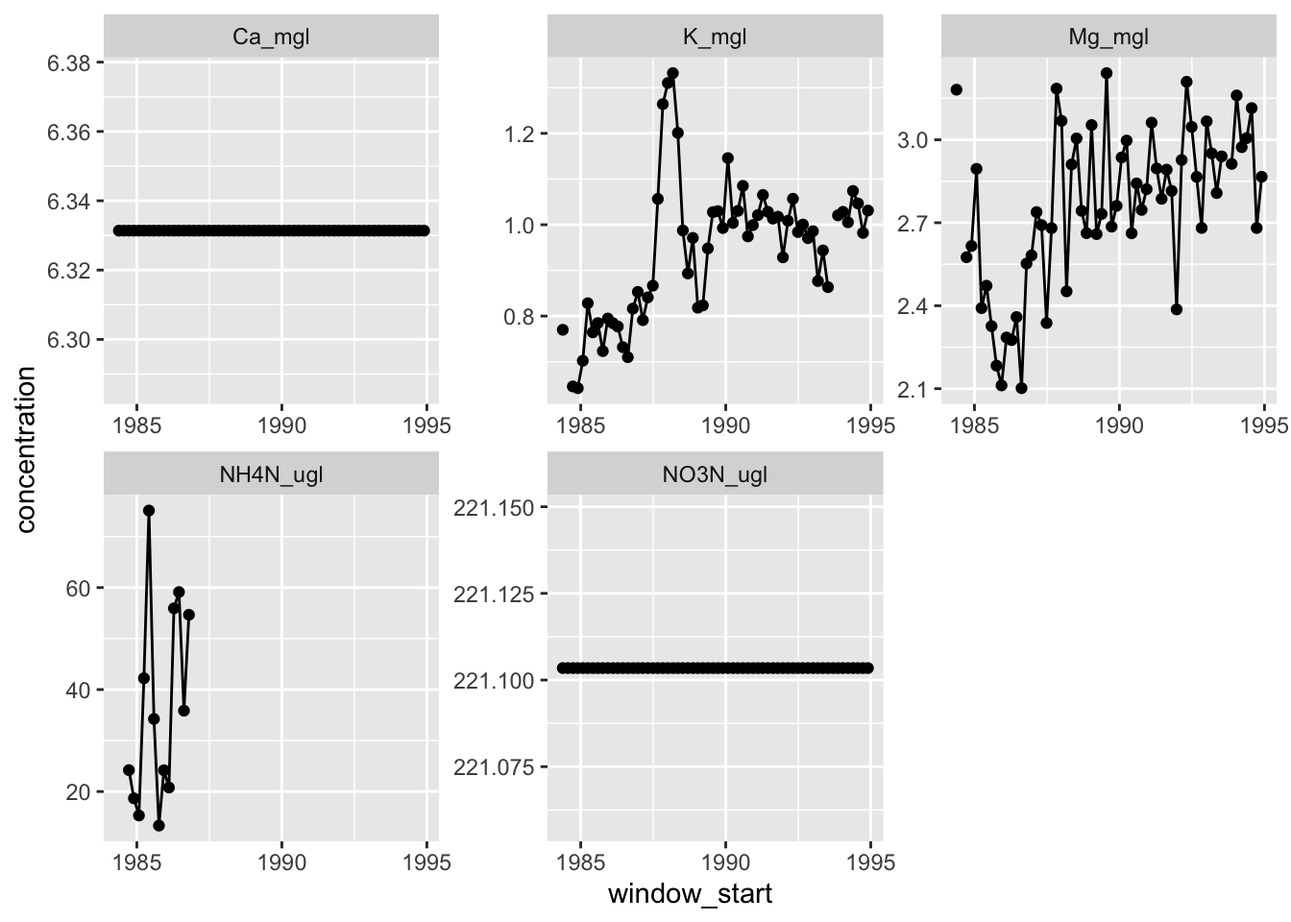
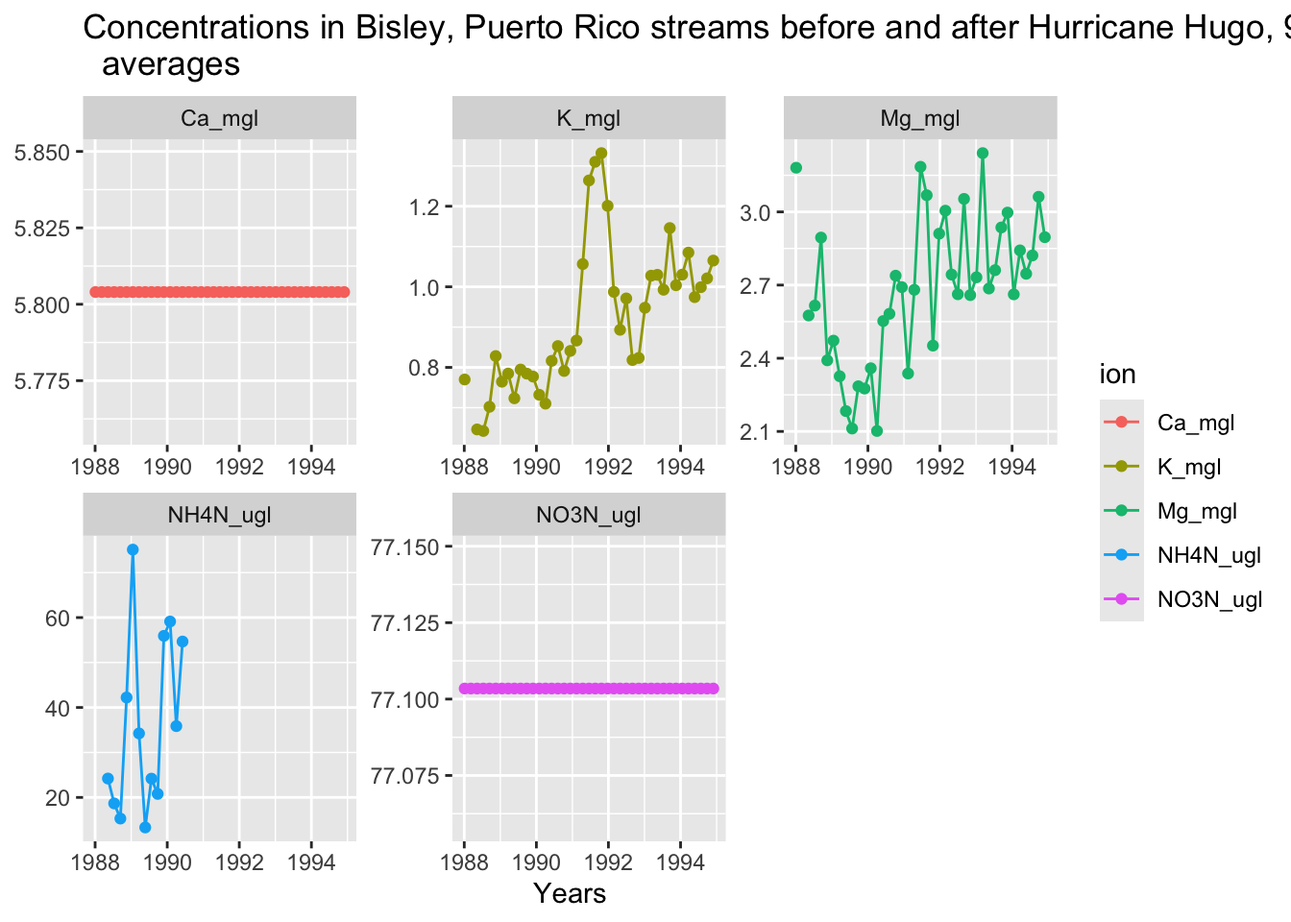
fixed my checkmark for self-assesment

diff --git a/finaleds214.html b/finaleds214.html
@@ -161,12 +161,12 @@ pre > code.sourceCode > span > a:first-child::before { text-decoration: underlin
 <section id="cleaning-data" class="level2">
 <h2 class="anchored" data-anchor-id="cleaning-data">Cleaning Data</h2>
 <div class="cell">
-<div class="code-copy-outer-scaffold"><div class="sourceCode cell-code" id="cb2"><pre class="sourceCode r code-with-copy"><code class="sourceCode r"><span id="cb2-1"><a href="#cb2-1" aria-hidden="true" tabindex="-1"></a>combined <span class="ot">&lt;-</span> <span class="fu">bind_rows</span>(bq1, bq2, bq3, prm) <span class="co"># bind_rows vs rbind</span></span>
+<div class="code-copy-outer-scaffold"><div class="sourceCode cell-code" id="cb2"><pre class="sourceCode r code-with-copy"><code class="sourceCode r"><span id="cb2-1"><a href="#cb2-1" aria-hidden="true" tabindex="-1"></a>combined <span class="ot">&lt;-</span> <span class="fu">bind_rows</span>(bq1, bq2, bq3, prm) <span class="co"># rbind won't be as effective as bind_rows</span></span>
 <span id="cb2-2"><a href="#cb2-2" aria-hidden="true" tabindex="-1"></a></span>
-<span id="cb2-3"><a href="#cb2-3" aria-hidden="true" tabindex="-1"></a>clean_combine <span class="ot">&lt;-</span> combined <span class="sc">|&gt;</span> <span class="co"># clean the combine data</span></span>
-<span id="cb2-4"><a href="#cb2-4" aria-hidden="true" tabindex="-1"></a>  <span class="fu">select</span>(Sample_ID, Sample_Date,<span class="st">`</span><span class="at">NH4-N</span><span class="st">`</span>, <span class="st">`</span><span class="at">NO3-N</span><span class="st">`</span>, Ca, Mg, K) <span class="co"># select the columns of interest</span></span>
+<span id="cb2-3"><a href="#cb2-3" aria-hidden="true" tabindex="-1"></a>clean_combine <span class="ot">&lt;-</span> combined <span class="sc">|&gt;</span></span>
+<span id="cb2-4"><a href="#cb2-4" aria-hidden="true" tabindex="-1"></a>  <span class="fu">select</span>(Sample_ID, Sample_Date, <span class="st">`</span><span class="at">NH4-N</span><span class="st">`</span>, <span class="st">`</span><span class="at">NO3-N</span><span class="st">`</span>, Ca, Mg, K)</span>
 <span id="cb2-5"><a href="#cb2-5" aria-hidden="true" tabindex="-1"></a></span>
-<span id="cb2-6"><a href="#cb2-6" aria-hidden="true" tabindex="-1"></a><span class="fu">glimpse</span>(clean_combine) <span class="co"># glimpse at the clean data</span></span></code></pre></div><button title="Copy to Clipboard" class="code-copy-button"><i class="bi"></i></button></div>
+<span id="cb2-6"><a href="#cb2-6" aria-hidden="true" tabindex="-1"></a><span class="fu">glimpse</span>(clean_combine) <span class="co"># utilisizing glimpse in order to view the columns in the clean data</span></span></code></pre></div><button title="Copy to Clipboard" class="code-copy-button"><i class="bi"></i></button></div>
 <div class="cell-output cell-output-stdout">
 <pre><code>Rows: 7,177
 Columns: 7
@@ -185,7 +185,7 @@ $ K           &lt;dbl&gt; 0.81, 0.82, 0.82, 0.65, 0.62, 0.64, 0.69, 0.68, 0.77, 
 <div class="cell">
 <div class="code-copy-outer-scaffold"><div class="sourceCode cell-code" id="cb4"><pre class="sourceCode r code-with-copy"><code class="sourceCode r"><span id="cb4-1"><a href="#cb4-1" aria-hidden="true" tabindex="-1"></a>combine_tibble <span class="ot">&lt;-</span> <span class="fu">tibble</span>(</span>
 <span id="cb4-2"><a href="#cb4-2" aria-hidden="true" tabindex="-1"></a>  <span class="at">window_start =</span> <span class="fu">seq</span>(</span>
-<span id="cb4-3"><a href="#cb4-3" aria-hidden="true" tabindex="-1"></a>    <span class="fu">ymd</span>(<span class="st">"1984-05-20"</span>),</span>
+<span id="cb4-3"><a href="#cb4-3" aria-hidden="true" tabindex="-1"></a>    <span class="fu">ymd</span>(<span class="st">"1988-01-05"</span>),</span>
 <span id="cb4-4"><a href="#cb4-4" aria-hidden="true" tabindex="-1"></a>    <span class="fu">ymd</span>(<span class="st">"1994-12-31"</span>),</span>
 <span id="cb4-5"><a href="#cb4-5" aria-hidden="true" tabindex="-1"></a>    <span class="at">by =</span> <span class="st">"9 weeks"</span></span>
 <span id="cb4-6"><a href="#cb4-6" aria-hidden="true" tabindex="-1"></a>  ),</span>
@@ -203,27 +203,37 @@ $ K           &lt;dbl&gt; 0.81, 0.82, 0.82, 0.65, 0.62, 0.64, 0.69, 0.68, 0.77, 
 <div class="cell">
 <div class="code-copy-outer-scaffold"><div class="sourceCode cell-code" id="cb5"><pre class="sourceCode r code-with-copy"><code class="sourceCode r"><span id="cb5-1"><a href="#cb5-1" aria-hidden="true" tabindex="-1"></a>w2 <span class="ot">&lt;-</span> clean_combine<span class="sc">$</span>Sample_Date[<span class="dv">1</span>]</span>
 <span id="cb5-2"><a href="#cb5-2" aria-hidden="true" tabindex="-1"></a><span class="cf">for</span> (i <span class="cf">in</span> <span class="dv">1</span><span class="sc">:</span><span class="fu">nrow</span>(combine_tibble)) {</span>
-<span id="cb5-3"><a href="#cb5-3" aria-hidden="true" tabindex="-1"></a>  w1 <span class="ot">&lt;-</span> w2 </span>
+<span id="cb5-3"><a href="#cb5-3" aria-hidden="true" tabindex="-1"></a>  w1 <span class="ot">&lt;-</span> w2</span>
 <span id="cb5-4"><a href="#cb5-4" aria-hidden="true" tabindex="-1"></a>  <span class="fu">print</span>(w1)</span>
 <span id="cb5-5"><a href="#cb5-5" aria-hidden="true" tabindex="-1"></a>  w2 <span class="ot">&lt;-</span> w1 <span class="sc">+</span> <span class="fu">weeks</span>(<span class="dv">9</span>)</span>
 <span id="cb5-6"><a href="#cb5-6" aria-hidden="true" tabindex="-1"></a>  <span class="fu">print</span>(w2)</span>
 <span id="cb5-7"><a href="#cb5-7" aria-hidden="true" tabindex="-1"></a>  <span class="fu">print</span>(<span class="st">''</span>)</span>
-<span id="cb5-8"><a href="#cb5-8" aria-hidden="true" tabindex="-1"></a>  k <span class="ot">&lt;-</span> clean_combine<span class="sc">$</span>K[clean_combine<span class="sc">$</span>Sample_Date <span class="sc">&gt;=</span> w1 <span class="sc">&amp;</span> clean_combine<span class="sc">$</span>Sample_Date <span class="sc">&lt;</span> w2]</span>
-<span id="cb5-9"><a href="#cb5-9" aria-hidden="true" tabindex="-1"></a>  mean_k <span class="ot">&lt;-</span> <span class="fu">mean</span>(k, <span class="at">na.rm =</span> <span class="cn">TRUE</span>)</span>
-<span id="cb5-10"><a href="#cb5-10" aria-hidden="true" tabindex="-1"></a>  combine_tibble<span class="sc">$</span>K_mgl[i] <span class="ot">&lt;-</span> mean_k</span>
-<span id="cb5-11"><a href="#cb5-11" aria-hidden="true" tabindex="-1"></a>  mg <span class="ot">&lt;-</span> clean_combine<span class="sc">$</span>Mg[clean_combine<span class="sc">$</span>Sample_Date <span class="sc">&gt;=</span> w1 <span class="sc">&amp;</span> clean_combine<span class="sc">$</span>Sample_Date <span class="sc">&lt;</span> w2]</span>
-<span id="cb5-12"><a href="#cb5-12" aria-hidden="true" tabindex="-1"></a>  mean_mg <span class="ot">&lt;-</span> <span class="fu">mean</span>(mg, <span class="at">na.rm =</span> <span class="cn">TRUE</span>)</span>
-<span id="cb5-13"><a href="#cb5-13" aria-hidden="true" tabindex="-1"></a>  combine_tibble<span class="sc">$</span>Mg_mgl[i] <span class="ot">&lt;-</span> mean_mg</span>
-<span id="cb5-14"><a href="#cb5-14" aria-hidden="true" tabindex="-1"></a>  nh4n <span class="ot">&lt;-</span> clean_combine<span class="sc">$</span><span class="st">`</span><span class="at">NH4-N</span><span class="st">`</span>[clean_combine<span class="sc">$</span>Sample_Date <span class="sc">&gt;=</span> w1 <span class="sc">&amp;</span> clean_combine<span class="sc">$</span>Sample_Date <span class="sc">&lt;</span> w2]</span>
-<span id="cb5-15"><a href="#cb5-15" aria-hidden="true" tabindex="-1"></a>  mean_nh4n <span class="ot">&lt;-</span> <span class="fu">mean</span>(nh4n, <span class="at">na.rm =</span> <span class="cn">TRUE</span>)</span>
-<span id="cb5-16"><a href="#cb5-16" aria-hidden="true" tabindex="-1"></a>  combine_tibble<span class="sc">$</span>NH4N_ugl[i] <span class="ot">&lt;-</span> mean_nh4n</span>
-<span id="cb5-17"><a href="#cb5-17" aria-hidden="true" tabindex="-1"></a>  ca <span class="ot">&lt;-</span> clean_combine<span class="sc">$</span>Ca[clean_combine<span class="sc">$</span>Sample_Date <span class="sc">&gt;=</span> w1 <span class="sc">&amp;</span> clean_combine<span class="sc">$</span>Sample_Date <span class="sc">&lt;</span> w2]</span>
-<span id="cb5-18"><a href="#cb5-18" aria-hidden="true" tabindex="-1"></a>  mean_ca <span class="ot">&lt;-</span> <span class="fu">mean</span>(ca, <span class="at">na.rm =</span> <span class="cn">TRUE</span>)</span>
-<span id="cb5-19"><a href="#cb5-19" aria-hidden="true" tabindex="-1"></a>  combine_tibble<span class="sc">$</span>Ca_mgl <span class="ot">&lt;-</span> mean_ca</span>
-<span id="cb5-20"><a href="#cb5-20" aria-hidden="true" tabindex="-1"></a>  no3n <span class="ot">&lt;-</span> clean_combine<span class="sc">$</span><span class="st">`</span><span class="at">NO3-N</span><span class="st">`</span>[clean_combine<span class="sc">$</span>Sample_Date <span class="sc">&gt;=</span> w1 <span class="sc">&amp;</span> clean_combine<span class="sc">$</span>Sample_Date <span class="sc">&lt;</span> w2]</span>
-<span id="cb5-21"><a href="#cb5-21" aria-hidden="true" tabindex="-1"></a>  mean_no3n <span class="ot">&lt;-</span><span class="fu">mean</span>(no3n, <span class="at">na.rm =</span> <span class="cn">TRUE</span>)</span>
-<span id="cb5-22"><a href="#cb5-22" aria-hidden="true" tabindex="-1"></a>  combine_tibble<span class="sc">$</span>NO3N_ugl <span class="ot">&lt;-</span> mean_no3n</span>
-<span id="cb5-23"><a href="#cb5-23" aria-hidden="true" tabindex="-1"></a>}</span></code></pre></div><button title="Copy to Clipboard" class="code-copy-button"><i class="bi"></i></button></div>
+<span id="cb5-8"><a href="#cb5-8" aria-hidden="true" tabindex="-1"></a>  k <span class="ot">&lt;-</span> clean_combine<span class="sc">$</span>K[</span>
+<span id="cb5-9"><a href="#cb5-9" aria-hidden="true" tabindex="-1"></a>    clean_combine<span class="sc">$</span>Sample_Date <span class="sc">&gt;=</span> w1 <span class="sc">&amp;</span> clean_combine<span class="sc">$</span>Sample_Date <span class="sc">&lt;</span> w2</span>
+<span id="cb5-10"><a href="#cb5-10" aria-hidden="true" tabindex="-1"></a>  ]</span>
+<span id="cb5-11"><a href="#cb5-11" aria-hidden="true" tabindex="-1"></a>  mean_k <span class="ot">&lt;-</span> <span class="fu">mean</span>(k, <span class="at">na.rm =</span> <span class="cn">TRUE</span>)</span>
+<span id="cb5-12"><a href="#cb5-12" aria-hidden="true" tabindex="-1"></a>  combine_tibble<span class="sc">$</span>K_mgl[i] <span class="ot">&lt;-</span> mean_k</span>
+<span id="cb5-13"><a href="#cb5-13" aria-hidden="true" tabindex="-1"></a>  mg <span class="ot">&lt;-</span> clean_combine<span class="sc">$</span>Mg[</span>
+<span id="cb5-14"><a href="#cb5-14" aria-hidden="true" tabindex="-1"></a>    clean_combine<span class="sc">$</span>Sample_Date <span class="sc">&gt;=</span> w1 <span class="sc">&amp;</span> clean_combine<span class="sc">$</span>Sample_Date <span class="sc">&lt;</span> w2</span>
+<span id="cb5-15"><a href="#cb5-15" aria-hidden="true" tabindex="-1"></a>  ]</span>
+<span id="cb5-16"><a href="#cb5-16" aria-hidden="true" tabindex="-1"></a>  mean_mg <span class="ot">&lt;-</span> <span class="fu">mean</span>(mg, <span class="at">na.rm =</span> <span class="cn">TRUE</span>)</span>
+<span id="cb5-17"><a href="#cb5-17" aria-hidden="true" tabindex="-1"></a>  combine_tibble<span class="sc">$</span>Mg_mgl[i] <span class="ot">&lt;-</span> mean_mg</span>
+<span id="cb5-18"><a href="#cb5-18" aria-hidden="true" tabindex="-1"></a>  nh4n <span class="ot">&lt;-</span> clean_combine<span class="sc">$</span><span class="st">`</span><span class="at">NH4-N</span><span class="st">`</span>[</span>
+<span id="cb5-19"><a href="#cb5-19" aria-hidden="true" tabindex="-1"></a>    clean_combine<span class="sc">$</span>Sample_Date <span class="sc">&gt;=</span> w1 <span class="sc">&amp;</span> clean_combine<span class="sc">$</span>Sample_Date <span class="sc">&lt;</span> w2</span>
+<span id="cb5-20"><a href="#cb5-20" aria-hidden="true" tabindex="-1"></a>  ]</span>
+<span id="cb5-21"><a href="#cb5-21" aria-hidden="true" tabindex="-1"></a>  mean_nh4n <span class="ot">&lt;-</span> <span class="fu">mean</span>(nh4n, <span class="at">na.rm =</span> <span class="cn">TRUE</span>)</span>
+<span id="cb5-22"><a href="#cb5-22" aria-hidden="true" tabindex="-1"></a>  combine_tibble<span class="sc">$</span>NH4N_ugl[i] <span class="ot">&lt;-</span> mean_nh4n</span>
+<span id="cb5-23"><a href="#cb5-23" aria-hidden="true" tabindex="-1"></a>  ca <span class="ot">&lt;-</span> clean_combine<span class="sc">$</span>Ca[</span>
+<span id="cb5-24"><a href="#cb5-24" aria-hidden="true" tabindex="-1"></a>    clean_combine<span class="sc">$</span>Sample_Date <span class="sc">&gt;=</span> w1 <span class="sc">&amp;</span> clean_combine<span class="sc">$</span>Sample_Date <span class="sc">&lt;</span> w2</span>
+<span id="cb5-25"><a href="#cb5-25" aria-hidden="true" tabindex="-1"></a>  ]</span>
+<span id="cb5-26"><a href="#cb5-26" aria-hidden="true" tabindex="-1"></a>  mean_ca <span class="ot">&lt;-</span> <span class="fu">mean</span>(ca, <span class="at">na.rm =</span> <span class="cn">TRUE</span>)</span>
+<span id="cb5-27"><a href="#cb5-27" aria-hidden="true" tabindex="-1"></a>  combine_tibble<span class="sc">$</span>Ca_mgl <span class="ot">&lt;-</span> mean_ca</span>
+<span id="cb5-28"><a href="#cb5-28" aria-hidden="true" tabindex="-1"></a>  no3n <span class="ot">&lt;-</span> clean_combine<span class="sc">$</span><span class="st">`</span><span class="at">NO3-N</span><span class="st">`</span>[</span>
+<span id="cb5-29"><a href="#cb5-29" aria-hidden="true" tabindex="-1"></a>    clean_combine<span class="sc">$</span>Sample_Date <span class="sc">&gt;=</span> w1 <span class="sc">&amp;</span> clean_combine<span class="sc">$</span>Sample_Date <span class="sc">&lt;</span> w2</span>
+<span id="cb5-30"><a href="#cb5-30" aria-hidden="true" tabindex="-1"></a>  ]</span>
+<span id="cb5-31"><a href="#cb5-31" aria-hidden="true" tabindex="-1"></a>  mean_no3n <span class="ot">&lt;-</span> <span class="fu">mean</span>(no3n, <span class="at">na.rm =</span> <span class="cn">TRUE</span>)</span>
+<span id="cb5-32"><a href="#cb5-32" aria-hidden="true" tabindex="-1"></a>  combine_tibble<span class="sc">$</span>NO3N_ugl <span class="ot">&lt;-</span> mean_no3n</span>
+<span id="cb5-33"><a href="#cb5-33" aria-hidden="true" tabindex="-1"></a>}</span></code></pre></div><button title="Copy to Clipboard" class="code-copy-button"><i class="bi"></i></button></div>
 <div class="cell-output cell-output-stdout">
 <pre><code>[1] "1986-05-20"
 [1] "1986-07-22"
@@ -347,115 +357,53 @@ $ K           &lt;dbl&gt; 0.81, 0.82, 0.82, 0.65, 0.62, 0.64, 0.69, 0.68, 0.77, 
 [1] ""
 [1] "1993-04-13"
 [1] "1993-06-15"
-[1] ""
-[1] "1993-06-15"
-[1] "1993-08-17"
-[1] ""
-[1] "1993-08-17"
-[1] "1993-10-19"
-[1] ""
-[1] "1993-10-19"
-[1] "1993-12-21"
-[1] ""
-[1] "1993-12-21"
-[1] "1994-02-22"
-[1] ""
-[1] "1994-02-22"
-[1] "1994-04-26"
-[1] ""
-[1] "1994-04-26"
-[1] "1994-06-28"
-[1] ""
-[1] "1994-06-28"
-[1] "1994-08-30"
-[1] ""
-[1] "1994-08-30"
-[1] "1994-11-01"
-[1] ""
-[1] "1994-11-01"
-[1] "1995-01-03"
-[1] ""
-[1] "1995-01-03"
-[1] "1995-03-07"
-[1] ""
-[1] "1995-03-07"
-[1] "1995-05-09"
-[1] ""
-[1] "1995-05-09"
-[1] "1995-07-11"
-[1] ""
-[1] "1995-07-11"
-[1] "1995-09-12"
-[1] ""
-[1] "1995-09-12"
-[1] "1995-11-14"
-[1] ""
-[1] "1995-11-14"
-[1] "1996-01-16"
-[1] ""
-[1] "1996-01-16"
-[1] "1996-03-19"
-[1] ""
-[1] "1996-03-19"
-[1] "1996-05-21"
-[1] ""
-[1] "1996-05-21"
-[1] "1996-07-23"
-[1] ""
-[1] "1996-07-23"
-[1] "1996-09-24"
-[1] ""
-[1] "1996-09-24"
-[1] "1996-11-26"
-[1] ""
-[1] "1996-11-26"
-[1] "1997-01-28"
 [1] ""</code></pre>
 </div>
 <div class="code-copy-outer-scaffold"><div class="sourceCode cell-code" id="cb7"><pre class="sourceCode r code-with-copy"><code class="sourceCode r"><span id="cb7-1"><a href="#cb7-1" aria-hidden="true" tabindex="-1"></a><span class="fu">print</span>(combine_tibble)</span></code></pre></div><button title="Copy to Clipboard" class="code-copy-button"><i class="bi"></i></button></div>
 <div class="cell-output cell-output-stdout">
-<pre><code># A tibble: 62 × 7
+<pre><code># A tibble: 41 × 7
    window_start site  NH4N_ugl NO3N_ugl Ca_mgl Mg_mgl   K_mgl
    &lt;date&gt;       &lt;lgl&gt;    &lt;dbl&gt;    &lt;dbl&gt;  &lt;dbl&gt;  &lt;dbl&gt;   &lt;dbl&gt;
- 1 1984-05-20   NA       NaN       221.   6.33   3.18   0.77 
- 2 1984-07-22   NA       NaN       221.   6.33 NaN    NaN    
- 3 1984-09-23   NA        24.2     221.   6.33   2.58   0.646
- 4 1984-11-25   NA        18.7     221.   6.33   2.62   0.642
- 5 1985-01-27   NA        15.3     221.   6.33   2.89   0.702
- 6 1985-03-31   NA        42.2     221.   6.33   2.39   0.828
- 7 1985-06-02   NA        75.1     221.   6.33   2.47   0.764
- 8 1985-08-04   NA        34.2     221.   6.33   2.33   0.785
- 9 1985-10-06   NA        13.3     221.   6.33   2.18   0.723
-10 1985-12-08   NA        24.2     221.   6.33   2.11   0.795
-# ℹ 52 more rows</code></pre>
+ 1 1988-01-05   NA       NaN       77.1   5.80   3.18   0.77 
+ 2 1988-03-08   NA       NaN       77.1   5.80 NaN    NaN    
+ 3 1988-05-10   NA        24.2     77.1   5.80   2.58   0.646
+ 4 1988-07-12   NA        18.7     77.1   5.80   2.62   0.642
+ 5 1988-09-13   NA        15.3     77.1   5.80   2.89   0.702
+ 6 1988-11-15   NA        42.2     77.1   5.80   2.39   0.828
+ 7 1989-01-17   NA        75.1     77.1   5.80   2.47   0.764
+ 8 1989-03-21   NA        34.2     77.1   5.80   2.33   0.785
+ 9 1989-05-23   NA        13.3     77.1   5.80   2.18   0.723
+10 1989-07-25   NA        24.2     77.1   5.80   2.11   0.795
+# ℹ 31 more rows</code></pre>
 </div>
 </div>
 </section>
 <section id="pivot-long" class="level2">
 <h2 class="anchored" data-anchor-id="pivot-long">Pivot long</h2>
 <div class="cell">
-<div class="code-copy-outer-scaffold"><div class="sourceCode cell-code" id="cb9"><pre class="sourceCode r code-with-copy"><code class="sourceCode r"><span id="cb9-1"><a href="#cb9-1" aria-hidden="true" tabindex="-1"></a>clean_combine_long <span class="ot">&lt;-</span> combine_tibble <span class="sc">|&gt;</span> <span class="co"># new data from combine_tibble</span></span>
-<span id="cb9-2"><a href="#cb9-2" aria-hidden="true" tabindex="-1"></a>  <span class="fu">pivot_longer</span>( <span class="co"># collapse columns in order to plot by ions &amp; their concentration levels </span></span>
-<span id="cb9-3"><a href="#cb9-3" aria-hidden="true" tabindex="-1"></a>    <span class="at">cols =</span> <span class="sc">!</span>window_start <span class="sc">&amp;</span> <span class="sc">!</span>site, <span class="co"># columns are not window start</span></span>
-<span id="cb9-4"><a href="#cb9-4" aria-hidden="true" tabindex="-1"></a>    <span class="at">names_to =</span> <span class="st">"ion"</span>, <span class="co"># names are ions</span></span>
-<span id="cb9-5"><a href="#cb9-5" aria-hidden="true" tabindex="-1"></a>    <span class="at">values_to =</span> <span class="st">"concentration"</span> <span class="co"># these are the values</span></span>
-<span id="cb9-6"><a href="#cb9-6" aria-hidden="true" tabindex="-1"></a>  )</span>
-<span id="cb9-7"><a href="#cb9-7" aria-hidden="true" tabindex="-1"></a><span class="fu">print</span>(clean_combine_long)</span></code></pre></div><button title="Copy to Clipboard" class="code-copy-button"><i class="bi"></i></button></div>
+<div class="code-copy-outer-scaffold"><div class="sourceCode cell-code" id="cb9"><pre class="sourceCode r code-with-copy"><code class="sourceCode r"><span id="cb9-1"><a href="#cb9-1" aria-hidden="true" tabindex="-1"></a>clean_combine_long <span class="ot">&lt;-</span> combine_tibble <span class="sc">|&gt;</span> <span class="co">#</span></span>
+<span id="cb9-2"><a href="#cb9-2" aria-hidden="true" tabindex="-1"></a>  <span class="fu">pivot_longer</span>(</span>
+<span id="cb9-3"><a href="#cb9-3" aria-hidden="true" tabindex="-1"></a>    <span class="co"># collapse columns in order to plot by ions &amp; their concentration levels</span></span>
+<span id="cb9-4"><a href="#cb9-4" aria-hidden="true" tabindex="-1"></a>    <span class="at">cols =</span> <span class="sc">!</span>window_start <span class="sc">&amp;</span> <span class="sc">!</span>site, <span class="co"># columns will NOT select with "!"</span></span>
+<span id="cb9-5"><a href="#cb9-5" aria-hidden="true" tabindex="-1"></a>    <span class="at">names_to =</span> <span class="st">"ion"</span>, <span class="co"># to have the ion listed</span></span>
+<span id="cb9-6"><a href="#cb9-6" aria-hidden="true" tabindex="-1"></a>    <span class="at">values_to =</span> <span class="st">"concentration"</span> <span class="co"># for the columns need values from the ion concentrations</span></span>
+<span id="cb9-7"><a href="#cb9-7" aria-hidden="true" tabindex="-1"></a>  )</span>
+<span id="cb9-8"><a href="#cb9-8" aria-hidden="true" tabindex="-1"></a><span class="fu">print</span>(clean_combine_long)</span></code></pre></div><button title="Copy to Clipboard" class="code-copy-button"><i class="bi"></i></button></div>
 <div class="cell-output cell-output-stdout">
-<pre><code># A tibble: 310 × 4
+<pre><code># A tibble: 205 × 4
    window_start site  ion      concentration
    &lt;date&gt;       &lt;lgl&gt; &lt;chr&gt;            &lt;dbl&gt;
- 1 1984-05-20   NA    NH4N_ugl        NaN   
- 2 1984-05-20   NA    NO3N_ugl        221.  
- 3 1984-05-20   NA    Ca_mgl            6.33
- 4 1984-05-20   NA    Mg_mgl            3.18
- 5 1984-05-20   NA    K_mgl             0.77
- 6 1984-07-22   NA    NH4N_ugl        NaN   
- 7 1984-07-22   NA    NO3N_ugl        221.  
- 8 1984-07-22   NA    Ca_mgl            6.33
- 9 1984-07-22   NA    Mg_mgl          NaN   
-10 1984-07-22   NA    K_mgl           NaN   
-# ℹ 300 more rows</code></pre>
+ 1 1988-01-05   NA    NH4N_ugl        NaN   
+ 2 1988-01-05   NA    NO3N_ugl         77.1 
+ 3 1988-01-05   NA    Ca_mgl            5.80
+ 4 1988-01-05   NA    Mg_mgl            3.18
+ 5 1988-01-05   NA    K_mgl             0.77
+ 6 1988-03-08   NA    NH4N_ugl        NaN   
+ 7 1988-03-08   NA    NO3N_ugl         77.1 
+ 8 1988-03-08   NA    Ca_mgl            5.80
+ 9 1988-03-08   NA    Mg_mgl          NaN   
+10 1988-03-08   NA    K_mgl           NaN   
+# ℹ 195 more rows</code></pre>
 </div>
 </div>
 </section>
@@ -463,19 +411,28 @@ $ K           &lt;dbl&gt; 0.81, 0.82, 0.82, 0.65, 0.62, 0.64, 0.69, 0.68, 0.77, 
 <h2 class="anchored" data-anchor-id="plot-it">Plot it!</h2>
 <div class="cell">
 <div class="code-copy-outer-scaffold"><div class="sourceCode cell-code" id="cb11"><pre class="sourceCode r code-with-copy"><code class="sourceCode r"><span id="cb11-1"><a href="#cb11-1" aria-hidden="true" tabindex="-1"></a><span class="co"># Need sites lines</span></span>
-<span id="cb11-2"><a href="#cb11-2" aria-hidden="true" tabindex="-1"></a><span class="co"># need to scale for the proper units</span></span>
-<span id="cb11-3"><a href="#cb11-3" aria-hidden="true" tabindex="-1"></a><span class="co"># need to scale for the proper years</span></span>
+<span id="cb11-2"><a href="#cb11-2" aria-hidden="true" tabindex="-1"></a><span class="co"># Scale bny years</span></span>
+<span id="cb11-3"><a href="#cb11-3" aria-hidden="true" tabindex="-1"></a><span class="co"># scale by measurements</span></span>
 <span id="cb11-4"><a href="#cb11-4" aria-hidden="true" tabindex="-1"></a></span>
 <span id="cb11-5"><a href="#cb11-5" aria-hidden="true" tabindex="-1"></a><span class="fu">ggplot</span>(</span>
 <span id="cb11-6"><a href="#cb11-6" aria-hidden="true" tabindex="-1"></a>  <span class="at">data =</span> clean_combine_long,</span>
 <span id="cb11-7"><a href="#cb11-7" aria-hidden="true" tabindex="-1"></a>  <span class="at">mapping =</span> <span class="fu">aes</span>(</span>
 <span id="cb11-8"><a href="#cb11-8" aria-hidden="true" tabindex="-1"></a>    <span class="at">x =</span> window_start,</span>
-<span id="cb11-9"><a href="#cb11-9" aria-hidden="true" tabindex="-1"></a>    <span class="at">y =</span> concentration</span>
-<span id="cb11-10"><a href="#cb11-10" aria-hidden="true" tabindex="-1"></a>    )</span>
-<span id="cb11-11"><a href="#cb11-11" aria-hidden="true" tabindex="-1"></a>) <span class="sc">+</span></span>
-<span id="cb11-12"><a href="#cb11-12" aria-hidden="true" tabindex="-1"></a>  <span class="fu">geom_line</span>() <span class="sc">+</span></span>
-<span id="cb11-13"><a href="#cb11-13" aria-hidden="true" tabindex="-1"></a>  <span class="fu">geom_point</span>() <span class="sc">+</span></span>
-<span id="cb11-14"><a href="#cb11-14" aria-hidden="true" tabindex="-1"></a>  <span class="fu">facet_wrap</span>(<span class="sc">~</span>ion, <span class="at">scales =</span> <span class="st">"free"</span>)</span></code></pre></div><button title="Copy to Clipboard" class="code-copy-button"><i class="bi"></i></button></div>
+<span id="cb11-9"><a href="#cb11-9" aria-hidden="true" tabindex="-1"></a>    <span class="at">y =</span> concentration,</span>
+<span id="cb11-10"><a href="#cb11-10" aria-hidden="true" tabindex="-1"></a>    <span class="at">color =</span> ion</span>
+<span id="cb11-11"><a href="#cb11-11" aria-hidden="true" tabindex="-1"></a>  )</span>
+<span id="cb11-12"><a href="#cb11-12" aria-hidden="true" tabindex="-1"></a>) <span class="sc">+</span></span>
+<span id="cb11-13"><a href="#cb11-13" aria-hidden="true" tabindex="-1"></a>  <span class="fu">ggtitle</span>(</span>
+<span id="cb11-14"><a href="#cb11-14" aria-hidden="true" tabindex="-1"></a>    <span class="st">"Concentrations in Bisley, Puerto Rico streams before and after Hurricane Hugo, 9-wk moving</span></span>
+<span id="cb11-15"><a href="#cb11-15" aria-hidden="true" tabindex="-1"></a><span class="st">  averages"</span></span>
+<span id="cb11-16"><a href="#cb11-16" aria-hidden="true" tabindex="-1"></a>  ) <span class="sc">+</span></span>
+<span id="cb11-17"><a href="#cb11-17" aria-hidden="true" tabindex="-1"></a>  <span class="fu">geom_line</span>() <span class="sc">+</span></span>
+<span id="cb11-18"><a href="#cb11-18" aria-hidden="true" tabindex="-1"></a>  <span class="fu">geom_point</span>() <span class="sc">+</span></span>
+<span id="cb11-19"><a href="#cb11-19" aria-hidden="true" tabindex="-1"></a>  <span class="fu">labs</span>(</span>
+<span id="cb11-20"><a href="#cb11-20" aria-hidden="true" tabindex="-1"></a>    <span class="at">x =</span> <span class="st">"Years"</span>,</span>
+<span id="cb11-21"><a href="#cb11-21" aria-hidden="true" tabindex="-1"></a>    <span class="at">y =</span> <span class="cn">NULL</span></span>
+<span id="cb11-22"><a href="#cb11-22" aria-hidden="true" tabindex="-1"></a>  ) <span class="sc">+</span></span>
+<span id="cb11-23"><a href="#cb11-23" aria-hidden="true" tabindex="-1"></a>  <span class="fu">facet_wrap</span>(<span class="sc">~</span>ion, <span class="at">scales =</span> <span class="st">"free"</span>)</span></code></pre></div><button title="Copy to Clipboard" class="code-copy-button"><i class="bi"></i></button></div>
 <div class="cell-output-display">
 <div>
 <figure class="figure">

diff --git a/self-assessment.md b/self-assessment.md
@@ -43,7 +43,7 @@ no x - means "Not yet"
     - Don’t forget to add references for datasets too.
     
 ### Code is following a professional style and has comments explaing why.
-- [ ] **Code follows a professional style**
+- [X] **Code follows a professional style**
   - All code files follow a consistent style (the Air formatter automates this).
   - The code has an appropriate amount of comments.
     - Comments are minimized by using _meaningful variable names_ and _helper functions_.
